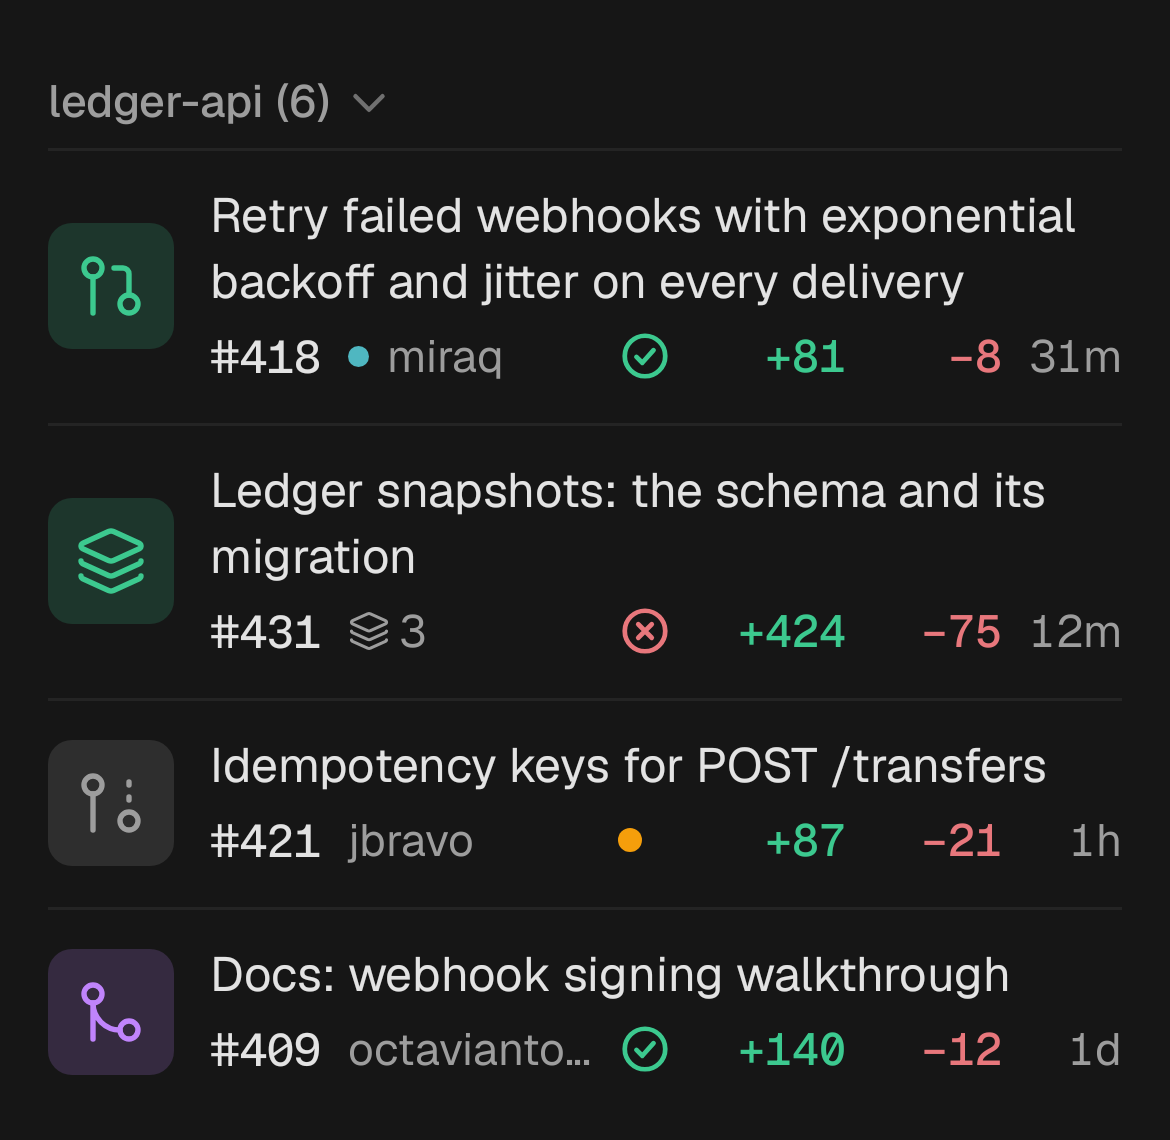
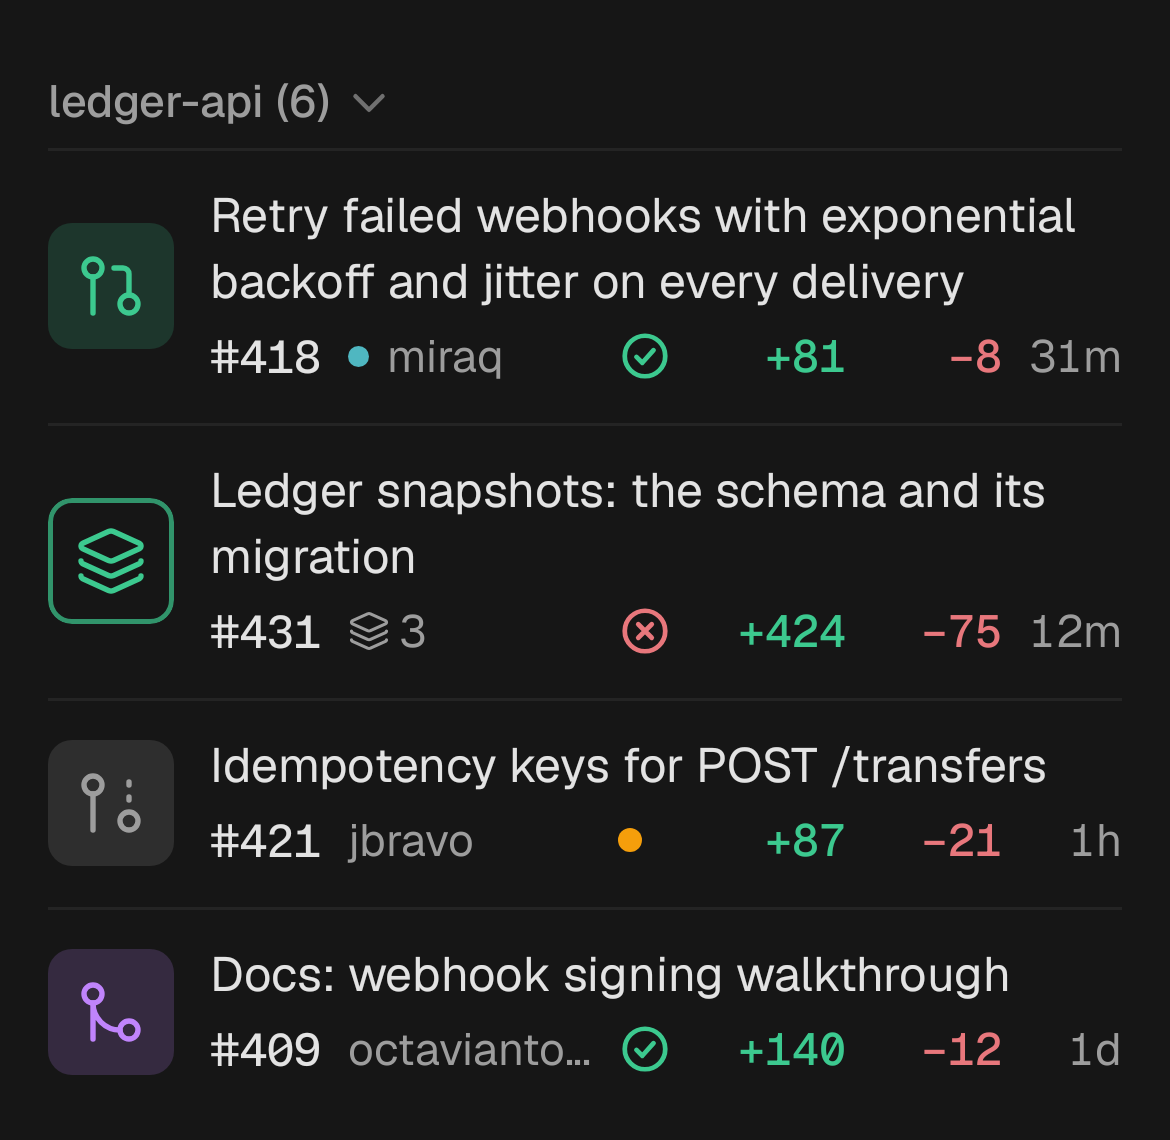
Stack row: an outlined tile, so a stack stands apart from pull requests
Tavi, 17 Oct 17:54: "Can the icon on the left for stacks be made a little
different? ... it blends too much with the PRs themselves." The stack
tile is now an outline in the bottom layer's state colour around the
layers mark, where every pull request's tile is filled. Rule 202 and
home-stacks-are-one-row say so.

Claude-Session: https://claude.ai/code/session_01J7PKhqexYBbgRnmEYbLeeZ

Changed region(s): [[0.0308, 0.4298, 0.1538, 0.5526]]

diff --git a/android/app/src/main/kotlin/com/octaviantocan/pulls/ui/home/PullRows.kt b/android/app/src/main/kotlin/com/octaviantocan/pulls/ui/home/PullRows.kt
@@ -1,6 +1,7 @@
 package com.octaviantocan.pulls.ui.home
 
 import androidx.compose.foundation.background
+import androidx.compose.foundation.border
 import androidx.compose.foundation.layout.Arrangement
 import androidx.compose.foundation.layout.Box
 import androidx.compose.foundation.layout.Column
@@ -136,6 +137,19 @@ private fun stateInk(state: PullState): Color {
     }
 }
 
+/**
+ * A stack row's tile: the row's square drawn as an outline in the bottom layer's state colour around the layers mark,
+ * so a stack does not read as one more pull request beside the filled tiles ("it blends too much with the PRs
+ * themselves": Tavi, 17 Oct 17:54; rule 202).
+ */
+@Composable
+private fun StackTile(ink: Color, modifier: Modifier) {
+    val shape = RoundedCornerShape(PullsRadius.lg)
+    Box(modifier.size(TILE).clip(shape).border(1.5.dp, ink.copy(alpha = 0.7f), shape), contentAlignment = Alignment.Center) {
+        LuIcon(Lu.layers, tint = ink, size = TILE_MARK)
+    }
+}
+
 /** The square at the head of a row, filled with [fill]: a pull request's state, or a tour's ring. */
 @Composable
 internal fun RowTile(fill: Color, modifier: Modifier = Modifier, content: @Composable () -> Unit) {
@@ -229,10 +243,11 @@ internal fun PullRowContent(pull: PullRow, now: Long, dimmed: Boolean, work: Pul
 }
 
 /**
- * `.stack`: the layers of one stack in the Inbox as one row (Tavi, 17 Oct 17:40; rule 202). The tile carries the layers
- * mark in the bottom layer's state colour, the title and number are the bottom layer's, the one that merges first, and
- * the meta line carries the stack mark with how many layers the row holds. The checks are the worst of the layers',
- * the + and − their sum and the age the newest. A tap or a hold opens the Stack sheet ([InboxStackSheet]).
+ * `.stack`: the layers of one stack in the Inbox as one row (Tavi, 17 Oct 17:40; rule 202). The tile is an outline
+ * ([StackTile]) around the layers mark in the bottom layer's state colour, the title and number are the bottom layer's,
+ * the one that merges first, and the meta line carries the stack mark with how many layers the row holds. The checks
+ * are the worst of the layers', the + and − their sum and the age the newest. A tap or a hold opens the Stack sheet
+ * ([InboxStackSheet]).
  */
 @Composable
 internal fun StackRowContent(layers: List<PullRow>, now: Long, repo: String? = null) {
@@ -248,9 +263,7 @@ internal fun StackRowContent(layers: List<PullRow>, now: Long, repo: String? = n
     PullRowFrame(
         AnnotatedString(bottom.title),
         tile = {
-            RowTile(ink.copy(alpha = if (c.dark) 0.18f else 0.12f), Modifier.semantics { contentDescription = "A stack of ${layers.size} pull requests" }) {
-                LuIcon(Lu.layers, tint = ink, size = TILE_MARK)
-            }
+            StackTile(ink, Modifier.semantics { contentDescription = "A stack of ${layers.size} pull requests" })
         },
     ) {
         RowNumber(bottom.number)

diff --git a/android/DESIGN.md b/android/DESIGN.md
@@ -2058,7 +2058,7 @@ Tavi's message of 17 Oct at 17:40: "since PR stacks are so common nowadays, I wo
 
 #### 202. A stack is one row in the Inbox.
 
-When two or more layers of one stack are in the same Inbox section, they are one row where the first of them stood: the layers mark in the tile, tinted for the bottom layer's state; the bottom layer's title and number, the one that merges first; after the number, the stack mark a lone layer carries with how many layers there are beside it, and no words (Tavi, 17:51: "there's no need for it to say '3 layers'. Just use the icon we were already using for stack and type a 3 next to it"); the worst of their checks, the sum of their + and −, and the newest age. A tap, a swipe or a hold opens the Stack sheet the pull request page uses, top layer first down to the base branch, and a tap on a layer opens it. A stack with one layer in the section keeps that pull request's own row with its place in the stack. Tours and a repository's list are unchanged.
+When two or more layers of one stack are in the same Inbox section, they are one row where the first of them stood: the layers mark in a tile drawn as an outline in the bottom layer's state colour rather than filled, so it does not blend with the pull requests around it (Tavi, 17:54: "it blends too much with the PRs themselves"); the bottom layer's title and number, the one that merges first; after the number, the stack mark a lone layer carries with how many layers there are beside it, and no words (Tavi, 17:51: "there's no need for it to say '3 layers'. Just use the icon we were already using for stack and type a 3 next to it"); the worst of their checks, the sum of their + and −, and the newest age. A tap, a swipe or a hold opens the Stack sheet the pull request page uses, top layer first down to the base branch, and a tap on a layer opens it. A stack with one layer in the section keeps that pull request's own row with its place in the stack. Tours and a repository's list are unchanged.
 
 Check: in the Inbox, three open layers of one stack are one row whose meta line shows the stack mark and a 3; tap it: the sheet lists the three, and tapping one opens that pull request.
 
